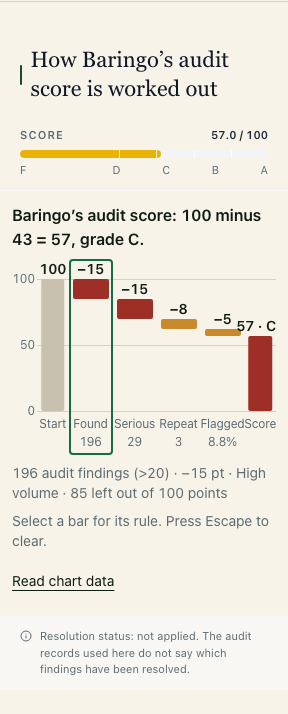
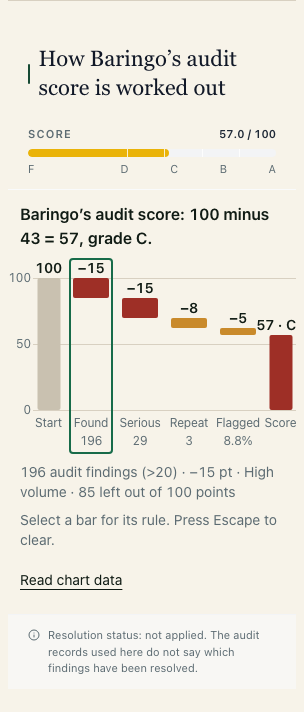
fix(county): separate score waterfall labels on phones

diff --git a/frontend/app/counties/[id]/tabs/ScoreWaterfall.tsx b/frontend/app/counties/[id]/tabs/ScoreWaterfall.tsx
@@ -13,6 +13,7 @@ const START_POINTS = 100;
 const AXIS_WIDTH = 25;
 const MIN_TARGET = 44;
 const ENDPOINT_WIDTH = 31;
+const COLUMN_GAP = 5;
 
 type ScoreStep = {
   label: string;
@@ -100,7 +101,8 @@ export default function ScoreWaterfall({
   useEffect(() => {
     const element = plot.current;
     if (!element) return;
-    const minimumWidth = AXIS_WIDTH + 2 * ENDPOINT_WIDTH + MIN_TARGET * deductionCount;
+    const minimumWidth =
+      AXIS_WIDTH + 2 * ENDPOINT_WIDTH + MIN_TARGET * deductionCount + COLUMN_GAP * (deductionCount + 1);
     const measure = () => setCompact(element.clientWidth < minimumWidth);
     measure();
     const observer = new ResizeObserver(measure);
@@ -151,6 +153,7 @@ export default function ScoreWaterfall({
             '--axis-width': `${AXIS_WIDTH}px`,
             '--endpoint-width': `${ENDPOINT_WIDTH}px`,
             '--min-target': `${MIN_TARGET}px`,
+            '--column-gap': `${COLUMN_GAP}px`,
             '--deduction-count': deductionCount,
           } as CSSProperties}>
           <div className={styles.axis} aria-hidden='true'>
@@ -162,7 +165,7 @@ export default function ScoreWaterfall({
                 <span className={styles.number}>{START_POINTS}</span>
                 <span className={styles.bar} />
               </span>
-              <span className={styles.label} data-short>{startLabel}</span>
+              <span className={styles.label} data-short>{compact ? startLabel : copy.start_chart[lang]}</span>
             </div>
             {steps.map((step, index) => {
               const datum = factors[index];

diff --git a/frontend/app/counties/[id]/tabs/ScoreWaterfall.module.css b/frontend/app/counties/[id]/tabs/ScoreWaterfall.module.css
@@ -18,6 +18,13 @@
   color: rgb(var(--c-neutral-text));
 }
 
+/* The plot can use the section’s phone gutters while the caption stays inset. */
+@media (max-width: 639px) {
+  .plot {
+    margin-inline: -0.75rem;
+  }
+}
+
 .axis {
   position: absolute;
   top: var(--number-space);
@@ -49,6 +56,7 @@
 .steps {
   grid-column: 2;
   display: grid;
+  column-gap: var(--column-gap);
   grid-template-columns: minmax(var(--endpoint-width), 1fr) repeat(var(--deduction-count), minmax(var(--min-target), 1fr)) minmax(var(--endpoint-width), 1fr);
   min-width: 0;
 }

diff --git a/frontend/app/counties/[id]/tabs/scoreMessages.ts b/frontend/app/counties/[id]/tabs/scoreMessages.ts
@@ -12,6 +12,7 @@ export const SCORE_MESSAGES = {
     plain: '{county}’s audit score: {start} minus {deductions} = {score}, grade {grade}.',
   },
   start: { en: 'Start', sw: 'Mwanzo', plain: 'Start' },
+  start_chart: { en: 'Start', sw: 'Anza', plain: 'Start' },
   found: { en: 'Found', sw: 'Matokeo', plain: 'Found' },
   serious: { en: 'Serious', sw: 'Mazito', plain: 'Serious' },
   repeat: { en: 'Repeat', sw: 'Rudia', plain: 'Repeat' },
